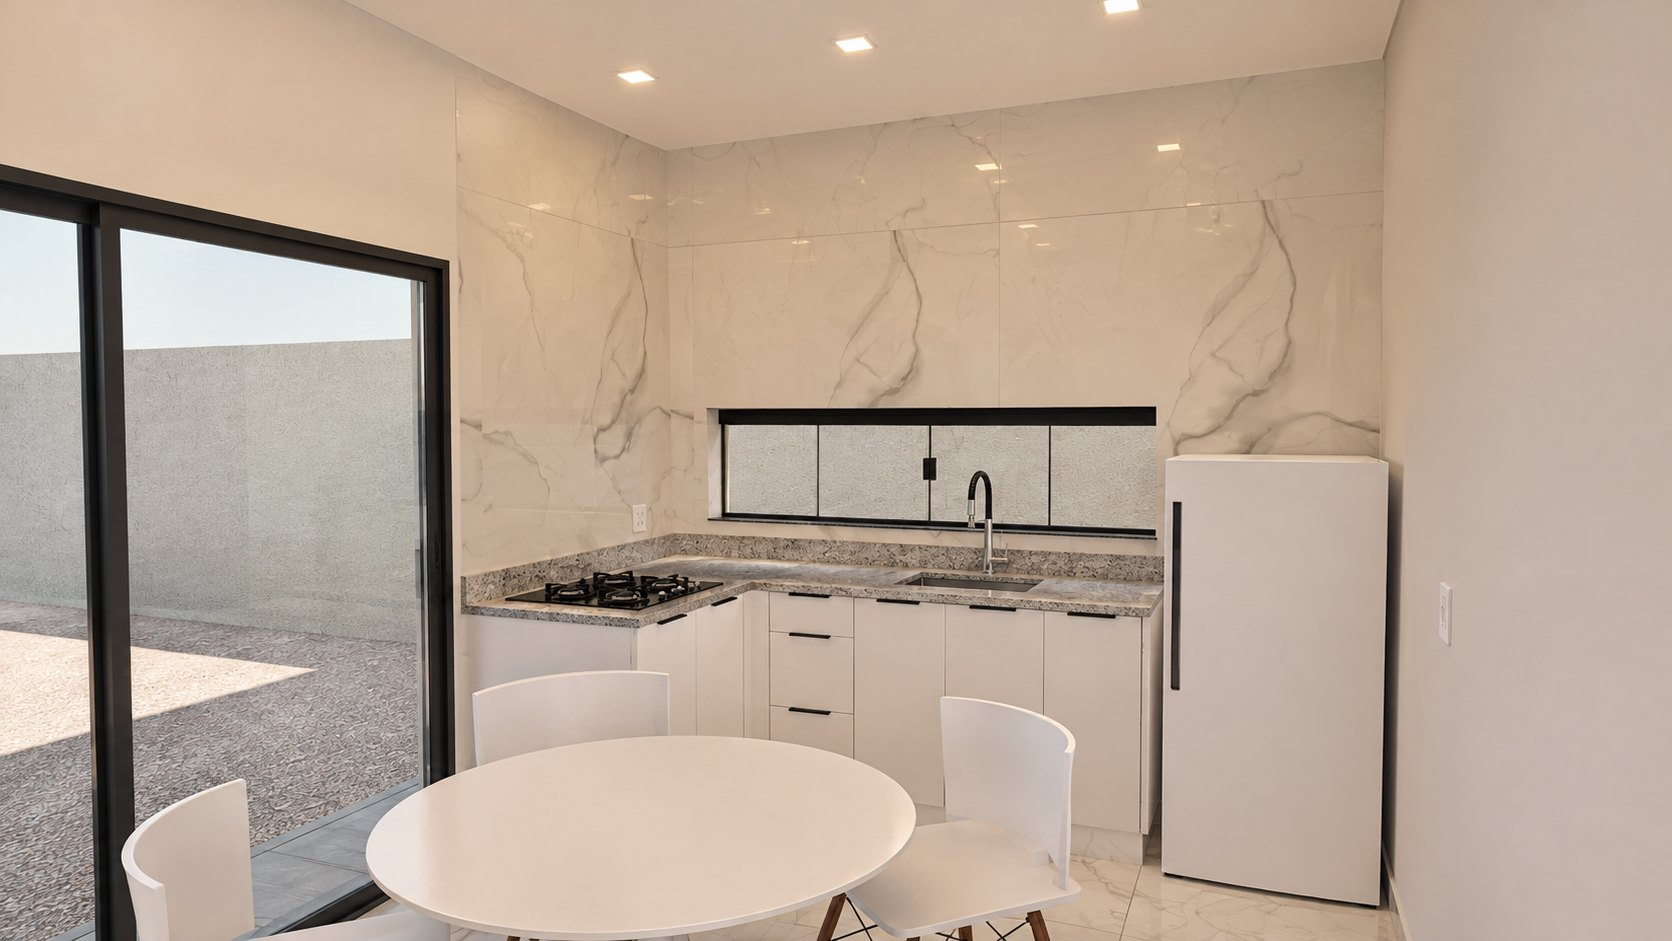
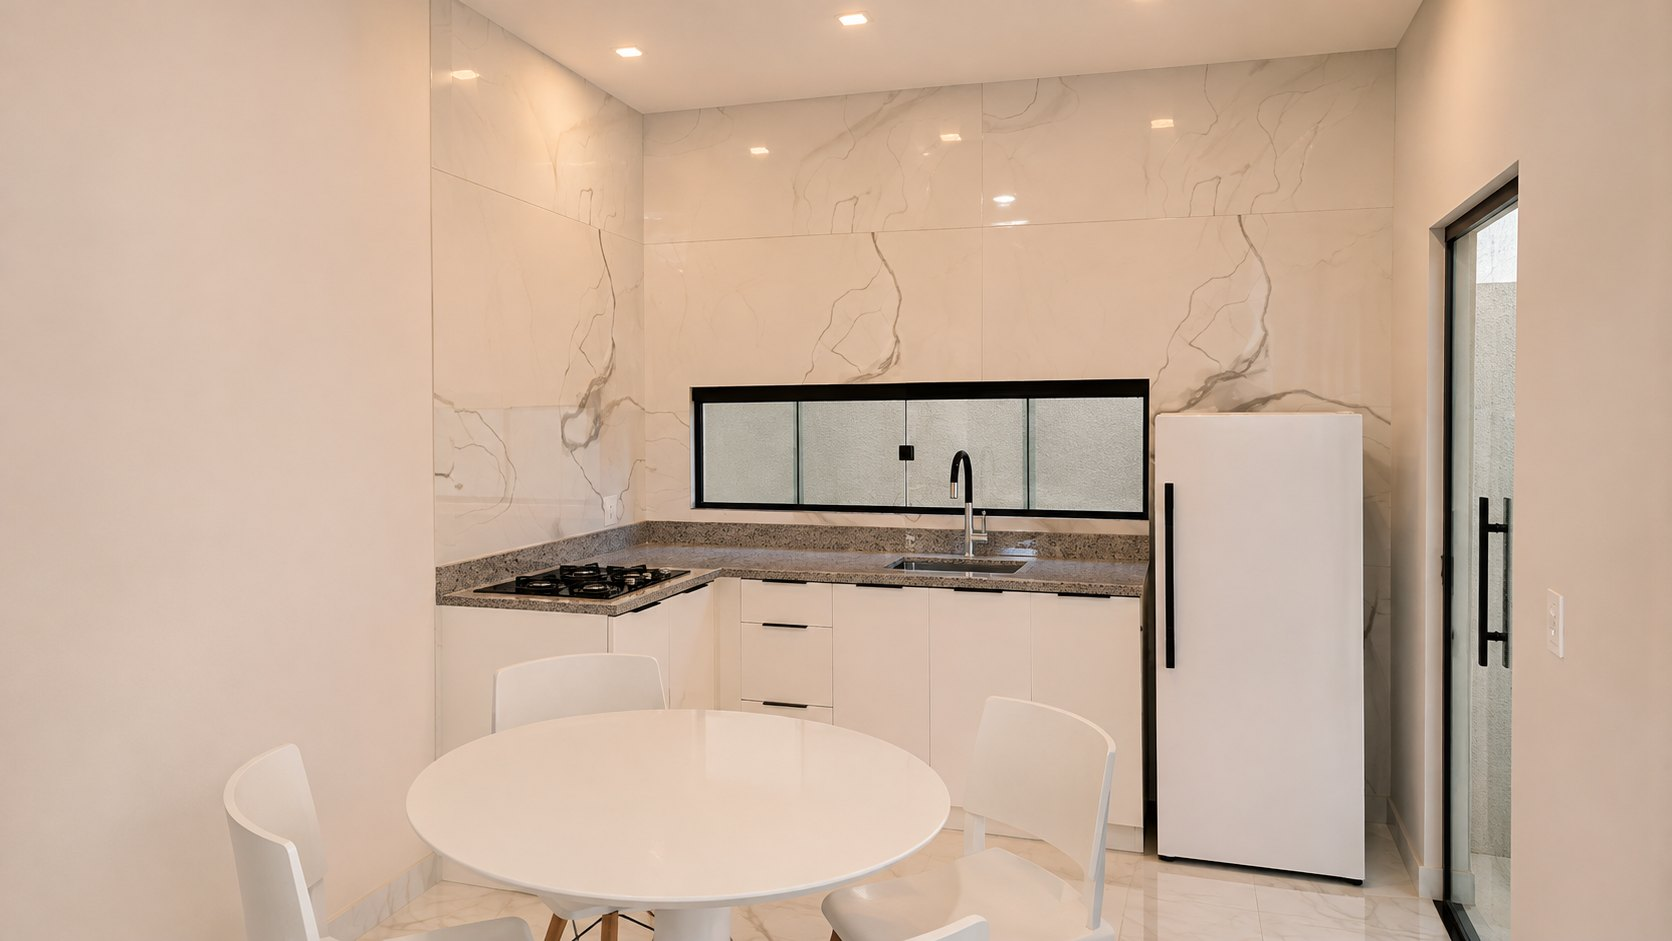
Casa Lyra R. Cravo: apresentação (padrão médio)

diff --git a/index.html b/index.html
@@ -285,11 +285,11 @@ footer .miolo { display: flex; justify-content: space-between; gap: 20px; flex-w
       <div class="fotos"><figure class="quadro"><img loading="lazy" src="img/cozinha.jpg" alt="Cozinha em L com bancada de granito cinza, janela sobre a pia e mesa redonda" data-legenda="Cozinha"></figure><figure class="quadro"><img loading="lazy" src="img/cozinha-l.jpg" alt="Canto da cozinha em L com cooktop junto à porta-janela" data-legenda="Cozinha, canto do L"></figure></div>
       <div>
         <h3>Cozinha</h3><span class="area">10,0 m²</span>
-        <p>Cozinha em L: a pia fica no centro da parede, sob uma janela de correr de 4 folhas, e o cooktop vai para o braço menor do L, ao lado da porta-janela do quintal. Assim sobra bancada livre para preparar a comida. Bancada, módulos, torneira, cooktop, geladeira e mesa aparecem como sugestão e não integram o valor proposto.</p>
+        <p>Cozinha em L: a pia fica no centro da parede, sob uma janela de correr de 4 folhas, e o cooktop vai para o braço menor do L, e a porta de vidro de abrir para o quintal fica no canto oposto. Assim sobra bancada livre para preparar a comida. Bancada, módulos, torneira, cooktop, geladeira e mesa aparecem como sugestão e não integram o valor proposto.</p>
         <ul>
           <li>Bancada em L de granito cinza claro com frontão, cuba de inox e cooktop 4 bocas <span class="nao-incluso">não incluso</span></li>
           <li>Módulos brancos sob a bancada e torneira de bica flexível <span class="nao-incluso">não incluso</span></li>
-          <li>Janela de correr de 4 folhas sobre a pia (peitoril a 1,10 m) e porta-janela de vidro para o quintal</li>
+          <li>Janela de correr de 4 folhas sobre a pia (peitoril a 1,10 m) e porta de vidro temperado de abrir (1,00 × 2,10) para o quintal</li>
           <li>Paredes da bancada em cerâmica clara marmorizada até o forro</li>
           <li>Geladeira e mesa redonda com 4 cadeiras <span class="nao-incluso">não incluso</span></li>
         </ul>
@@ -313,12 +313,13 @@ footer .miolo { display: flex; justify-content: space-between; gap: 20px; flex-w
       <div class="fotos"><figure class="quadro"><img loading="lazy" src="img/banho-social.jpg" alt="Banheiro com parede do box em cerâmica escura, nicho e bancada de granito cinza" data-legenda="Banheiro"></figure></div>
       <div>
         <h3>Banheiro</h3><span class="area">3,5 m²</span>
-        <p>Parede do box em cerâmica preta marmorizada e demais paredes em cerâmica clara. Bancada de granito cinza com cuba de louça, vaso com caixa acoplada e box de vidro. O nicho embutido no box, o chuveiro, as torneiras e demais metais, sifões, válvulas e acessórios de banheiro não integram o valor proposto.</p>
+        <p>Parede do box em cerâmica preta marmorizada e demais paredes em cerâmica clara. Bancada de granito cinza com cuba de louça, espelho orgânico com LED de fundo, vaso com caixa acoplada e box de vidro. O nicho embutido no box, o chuveiro, as torneiras e demais metais, sifões, válvulas e acessórios de banheiro não integram o valor proposto.</p>
         <ul>
           <li>Piso cerâmico acetinado nas áreas molhadas, nunca polido</li>
           <li>Plafon LED quadrado no forro</li>
           <li>Chuveiro <span class="nao-incluso">não incluso</span></li>
-          <li>Nicho embutido no box <span class="nao-incluso">não incluso</span></li>
+          <li>Nicho embutido no box, em granito cinza <span class="nao-incluso">não incluso</span></li>
+          <li>Espelho orgânico 50 × 70 com LED de fundo <span class="nao-incluso">não incluso</span></li>
           <li>Torneira e acessórios <span class="nao-incluso">não inclusos</span></li>
         </ul>
       </div>
